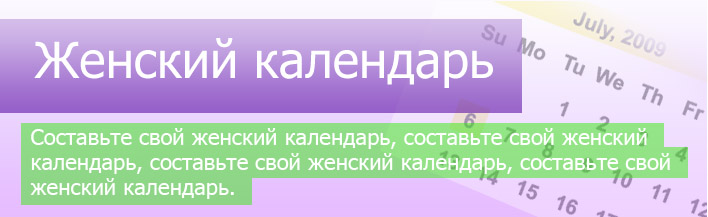
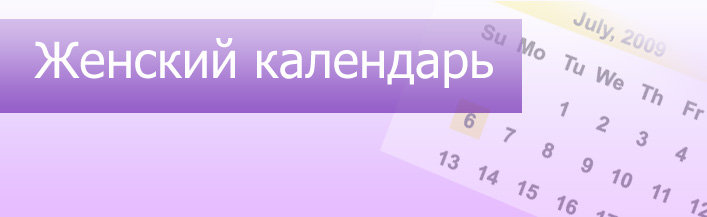
fixes and texts

diff --git a/site/frontend/www/stylesheets/baby.css b/site/frontend/www/stylesheets/baby.css
@@ -314,7 +314,8 @@
 #baby .placenta_article ul ins {padding:0 0 0 15px;}
 
 #baby .calculate_tb {display:block;padding:20px;margin:0 0 20px 0;border-bottom:5px solid #d4c6e4;position:relative;z-index:10;}
-#baby  .mother_cal_banner {display:block;}
+#baby  .mother_cal_banner {padding:125px 20px 20px 20px;display:block;width:667px;min-height:62px;background: url(../images/mother_calendar_banner.jpg) 0 0 no-repeat #e7bcff;position:relative;}
+#baby  .mother_cal_banner span {font:22px/22px tahoma, sans-serif;color:#ffffff;display:inline-block;background: url(../images/bg_gr_space.png) 0 0 repeat;padding:10px;}
 
 #baby .article_p {display:block;padding:0 25px;}
 #baby .article_p span.article_title {font:bold 25px/25px arial, sans-serif;color:#1787b6;display:block;padding:0 0 20px 0;}
@@ -463,7 +464,7 @@
 #baby .child_sex_blood_banner .ch_group ul li a {display:inline-block;width:42px;height:20px;background: url(../images/sr_buttons.png) 0 100% no-repeat;text-decoration:none;font:16px/20px times new roman, sans-serif;color:#9e9e9e;}
 #baby .child_sex_blood_banner .ch_group ul li a.active {display:inline-block;width:42px;height:20px;background: url(../images/sr_buttons.png) 0 0 no-repeat;text-decoration:none;font:16px/20px times new roman, sans-serif;color:#209b07;}
 
-#baby .child_sex_china_banner {position:relative;display:block;width:710px;height:625px;background: url(../images/sex_child_china_bann.jpg) 0 0 no-repeat;margin:0 0 30px 0;z-index: 5;}
+#baby .child_sex_china_banner {position:relative;display:block;width:710px;height:625px;background: url(../images/sex_child_china_bann.jpg) 0 0 no-repeat;margin:0 0 30px 0;}
 #baby .child_sex_china_banner input.mth_calculate {float:right;margin:20px 0 0 0;width:120px;height:33px;background: url(../images/bg_yellow_sub.png) 0 0 repeat-x;border:1px solid #f1d419;font:bold 16px arial, sans-serif;color:#c37d19;border-radius:5px;-moz-border-radius:5px;-webkit-border-radius:5px;}
 #baby .child_sex_china_banner ul.lists_td {background:#faf5fe;display:inline-block;padding:5px;}
 #baby .child_sex_china_banner ul.lists_td li {display:inline;}
@@ -475,8 +476,8 @@
 #baby .child_sex_china_banner .num_cal {width:50px;}
 #baby .child_sex_china_banner .mn_cal {width:85px;}
 #baby .child_sex_china_banner .yr_cal {width:63px;}
-#baby .child_sex_china_banner .mam_bd {width:240px;display:block;position:absolute;left:35px;top:514px;text-align:center;z-index: 5;}
-#baby .child_sex_china_banner .child_bd {width:240px;display:block;position:absolute;left:281px;top:514px;text-align:center;}
+#baby .child_sex_china_banner .mam_bd {width:240px;display:block;position:absolute;left:35px;top:514px;text-align:center;z-index:5;}
+#baby .child_sex_china_banner .child_bd {width:240px;display:block;position:absolute;left:281px;top:514px;text-align:center;z-index:5;}
 #baby .child_sex_china_banner span.title_pt_bn {display:block;text-align:center;font:15px tahoma, sans-serif;color:#111110;padding:0 0 10px 0;}
 #baby .child_sex_china_banner span.title_pt_bn ins {background:#fcf7a9;padding:0 5px;}
 #baby .child_sex_china_banner input.calc_bt {position:absolute;bottom:50px;right:34px;width:120px;height:33px;background: url(../images/bg_yellow_sub.png) 0 0 repeat-x;border:1px solid #f1d419;font:bold 16px arial, sans-serif;color:#c37d19;border-radius:5px;-moz-border-radius:5px;-webkit-border-radius:5px;}

diff --git a/site/frontend/modules/menstrualCycle/views/default/index.php b/site/frontend/modules/menstrualCycle/views/default/index.php
@@ -112,7 +112,7 @@ $model = new MenstrualCycleForm();?>
 </script>
 
 <div class="mother_cal_banner">
-    <img src="../images/mother_calendar_banner.jpg" alt="" title=""/>
+    <span>Менструальный цикл – это биологические часы женщины, запущенные самой природой. Составьте свой женский календарь и проверьте – правильно ли идут ваши часы, а также узнайте массу другой полезной информации.</span>
 </div><!-- .mother_cal_banner -->
 <div class="calculate_tb">
     <?php $form = $this->beginWidget('CActiveForm', array(
@@ -155,65 +155,65 @@ $model = new MenstrualCycleForm();?>
     <!-- .clear -->
 </div><!-- .calculate_tb -->
 <div id="result">
-<div class="mother_calendar">
-<div class="choice_month">
-    <a href="#" class="l_arr_mth" id="prev-month">&larr;</a>
-    <a href="#" class="r_arr_mth_active" id="next-month">&rarr;</a>
-    <span><?php echo HDate::ruMonth(date('m')), ', ' . date('Y') ?></span>
-</div>
-<!-- .choice_month -->
-<table class="calendar_body">
-<tr>
-    <th>Пн</th>
-    <th>Вт</th>
-    <th>Ср</th>
-    <th>Чт</th>
-    <th>Пт</th>
-    <th>Сб</th>
-    <th>Вс</th>
-</tr>
-    <?php
-    $skip = date("w");
-    if ($skip < 0)
-        $skip = 6;
-    $daysInMonth = date("t");
-    $day = 1;
-    $calendar_body = '';
-    for ($i = 0; $i < 6; $i++) { // Внешний цикл для недель 6 с неполыми
+    <div class="mother_calendar">
+        <div class="choice_month">
+            <a href="#" class="l_arr_mth" id="prev-month">&larr;</a>
+            <a href="#" class="r_arr_mth_active" id="next-month">&rarr;</a>
+            <span><?php echo HDate::ruMonth(date('m')), ', ' . date('Y') ?></span>
+        </div>
+        <!-- .choice_month -->
+        <table class="calendar_body">
+            <tr>
+                <th>Пн</th>
+                <th>Вт</th>
+                <th>Ср</th>
+                <th>Чт</th>
+                <th>Пт</th>
+                <th>Сб</th>
+                <th>Вс</th>
+            </tr>
+            <?php
+            $skip = date("w");
+            if ($skip < 0)
+                $skip = 6;
+            $daysInMonth = date("t");
+            $day = 1;
+            $calendar_body = '';
+            for ($i = 0; $i < 6; $i++) { // Внешний цикл для недель 6 с неполыми
 
-        $calendar_body .= '<tr>'; // открываем тэг строки
-        for ($j = 0; $j < 7; $j++) { // Внутренний цикл для дней недели
+                $calendar_body .= '<tr>'; // открываем тэг строки
+                for ($j = 0; $j < 7; $j++) { // Внутренний цикл для дней недели
 
-            if (($skip > 0)or($day > $daysInMonth)) { // выводим пустые ячейки до 1 го дня ип после полного количства дней
-                if ($day > $daysInMonth){
-                    $daysOtherMonth = date("t", strtotime('+1 month',strtotime(date("Y-m-d"))));
-                    $day2 = $day - $daysInMonth;
-                }else{
-                    $daysOtherMonth = date("t", strtotime('-1 month',strtotime(date("Y-m-d"))));
-                    $day2 = $daysOtherMonth - $skip + 1;
+                    if (($skip > 0)or($day > $daysInMonth)) { // выводим пустые ячейки до 1 го дня ип после полного количства дней
+                        if ($day > $daysInMonth) {
+                            $daysOtherMonth = date("t", strtotime('+1 month', strtotime(date("Y-m-d"))));
+                            $day2 = $day - $daysInMonth;
+                        } else {
+                            $daysOtherMonth = date("t", strtotime('-1 month', strtotime(date("Y-m-d"))));
+                            $day2 = $daysOtherMonth - $skip + 1;
+                        }
+                        $calendar_body .= ' <td><div class="cal_item_default"><div class="cal_item "><ins>' . $day2 . '</ins>' .
+                            '</div></div></td>';
+                        $skip--;
+
+                    }
+                    else {
+
+                        $calendar_body .= '<td><div class="cal_item"><ins>' . $day . '</ins></div></td>';
+                        $day++; // увеличиваем $day
+                    }
+
                 }
-                $calendar_body .= ' <td><div class="cal_item_default"><div class="cal_item "><ins>'.$day2.'</ins>'.
-                    '</div></div></td>';
-                $skip--;
-
+                $calendar_body .= '</tr>'; // закрываем тэг строки
+                if ($day > $daysInMonth)
+                    break;
             }
-            else {
-
-                $calendar_body .= '<td><div class="cal_item"><ins>' . $day . '</ins></div></td>';
-                $day++; // увеличиваем $day
-            }
-
-        }
-        $calendar_body .= '</tr>'; // закрываем тэг строки
-        if ($day > $daysInMonth)
-            break;
-    }
-    echo $calendar_body;
-    ?>
-</table>
-</div>
-<!-- .mother_calendar -->
-<div id="next-m"></div>
+            echo $calendar_body;
+            ?>
+        </table>
+    </div>
+    <!-- .mother_calendar -->
+    <div id="next-m"></div>
 </div>
 <div class="article_p">
     <span class="article_title">Менструальный цикл – жизнь по расписанию</span>
